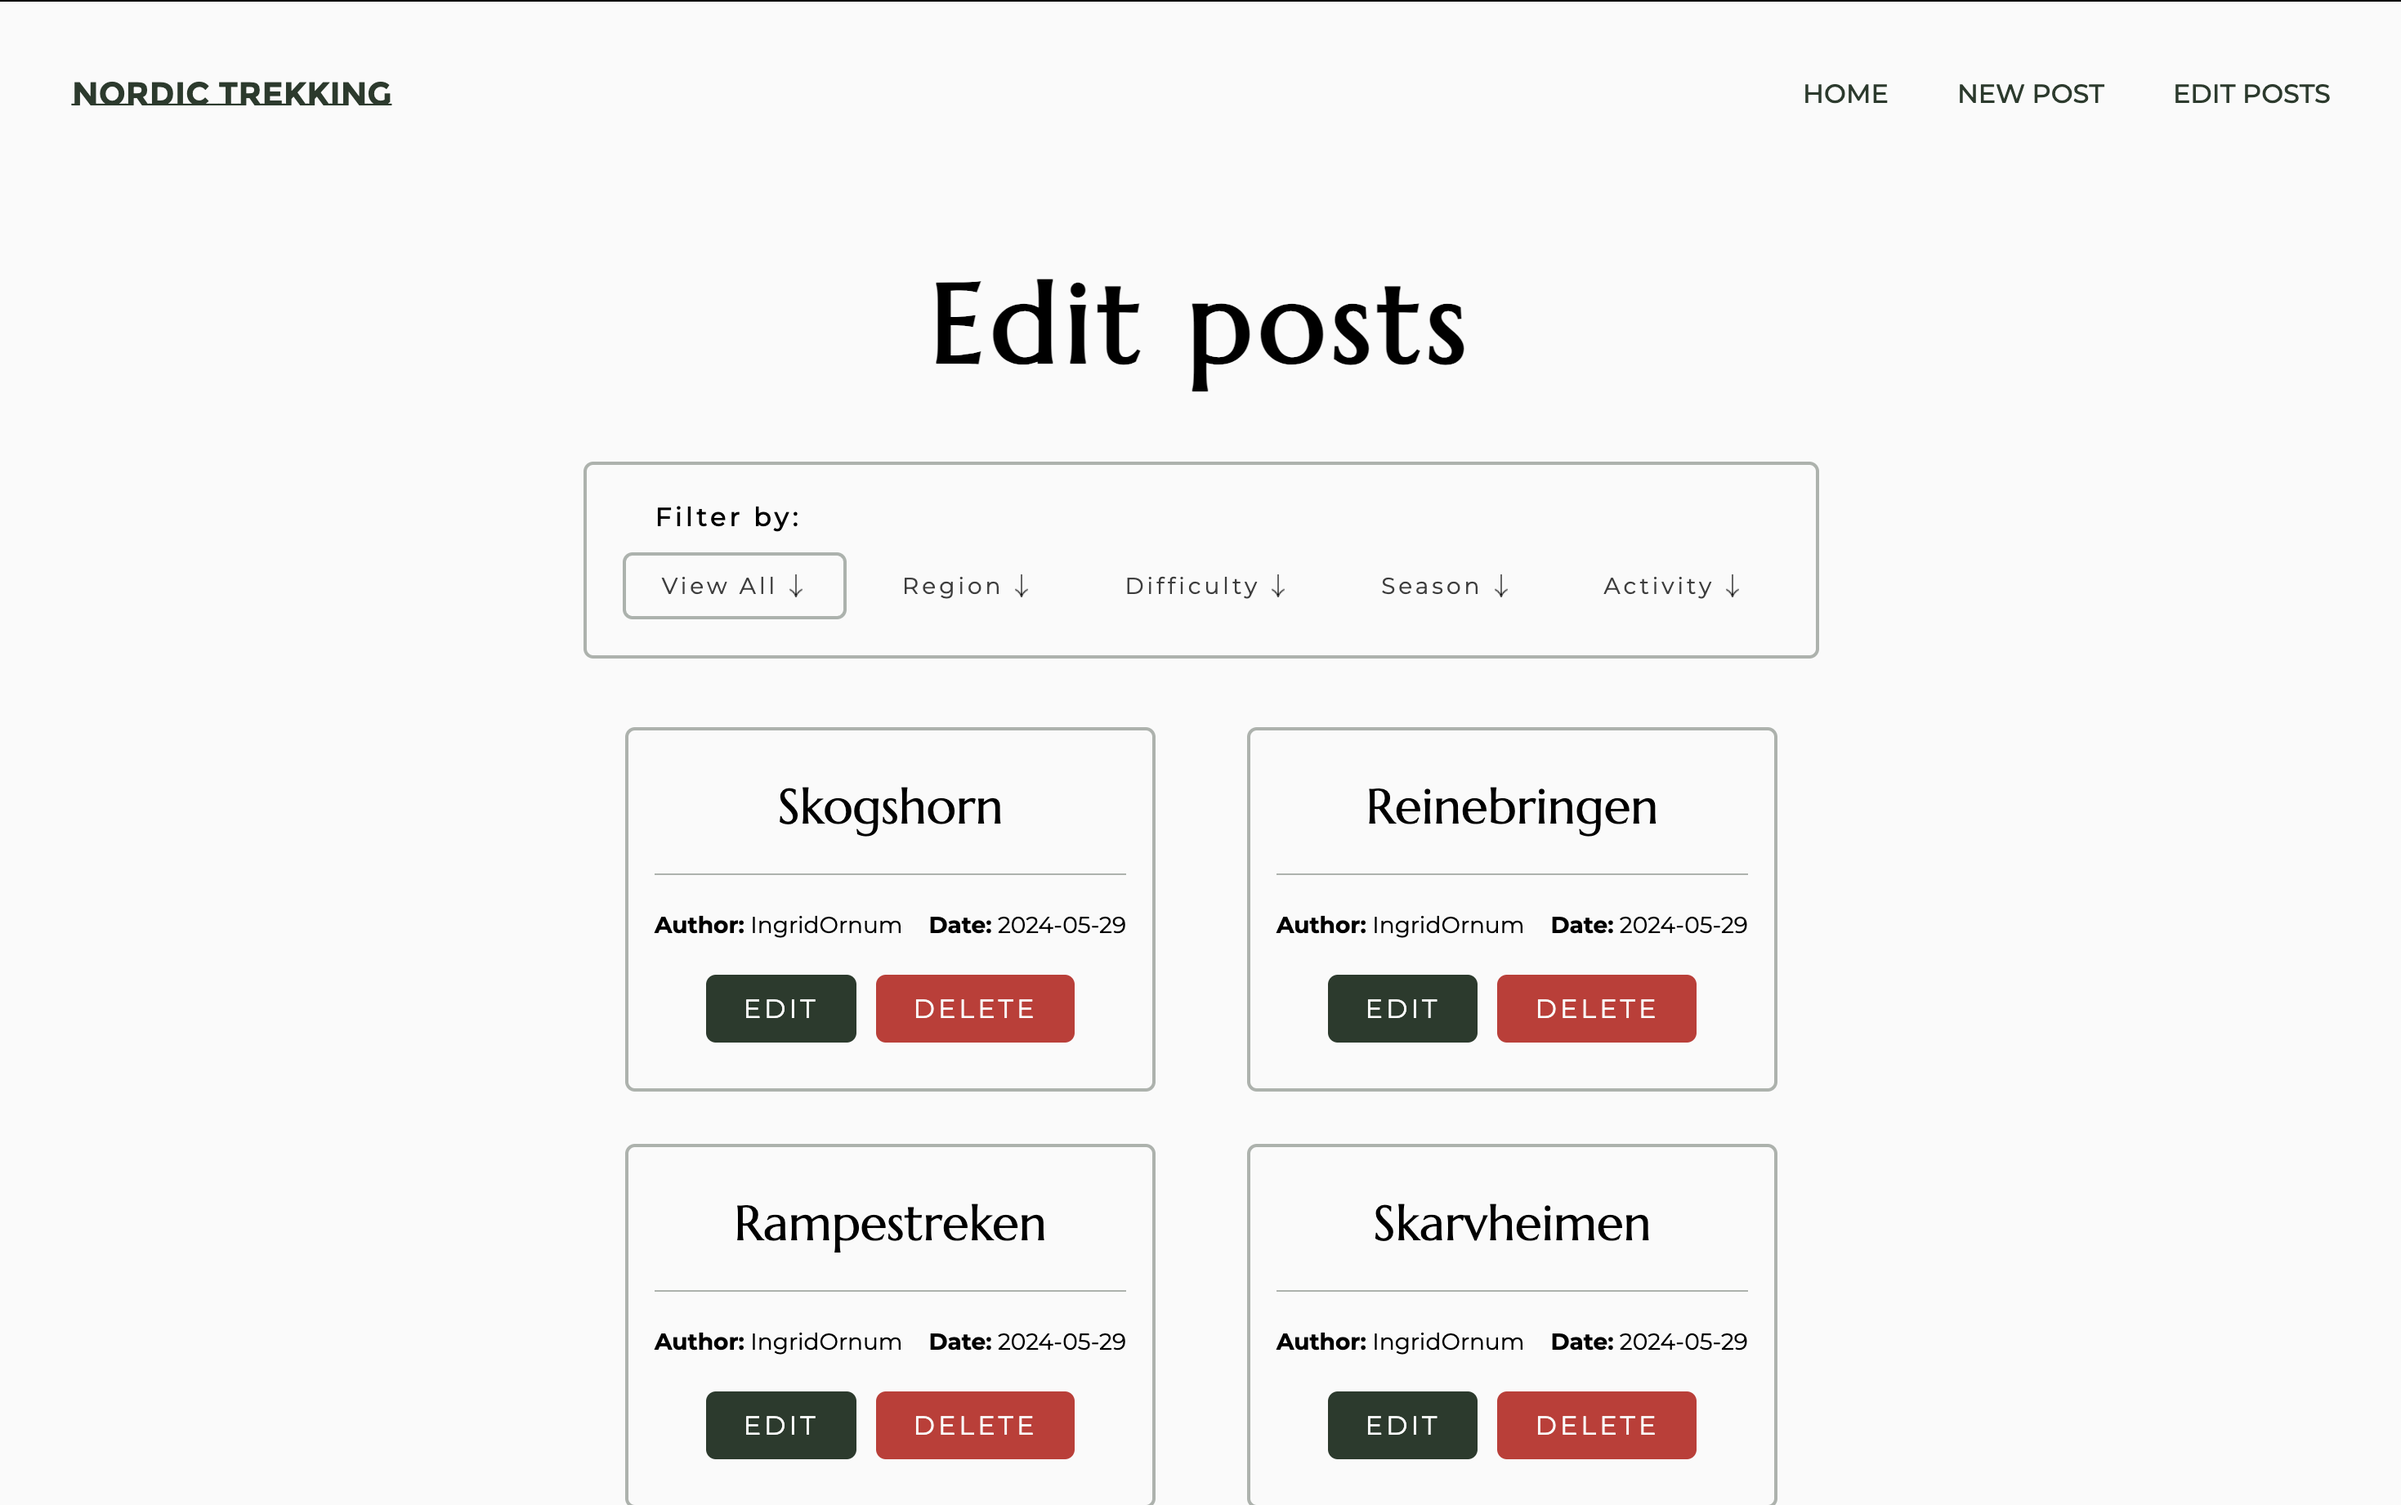
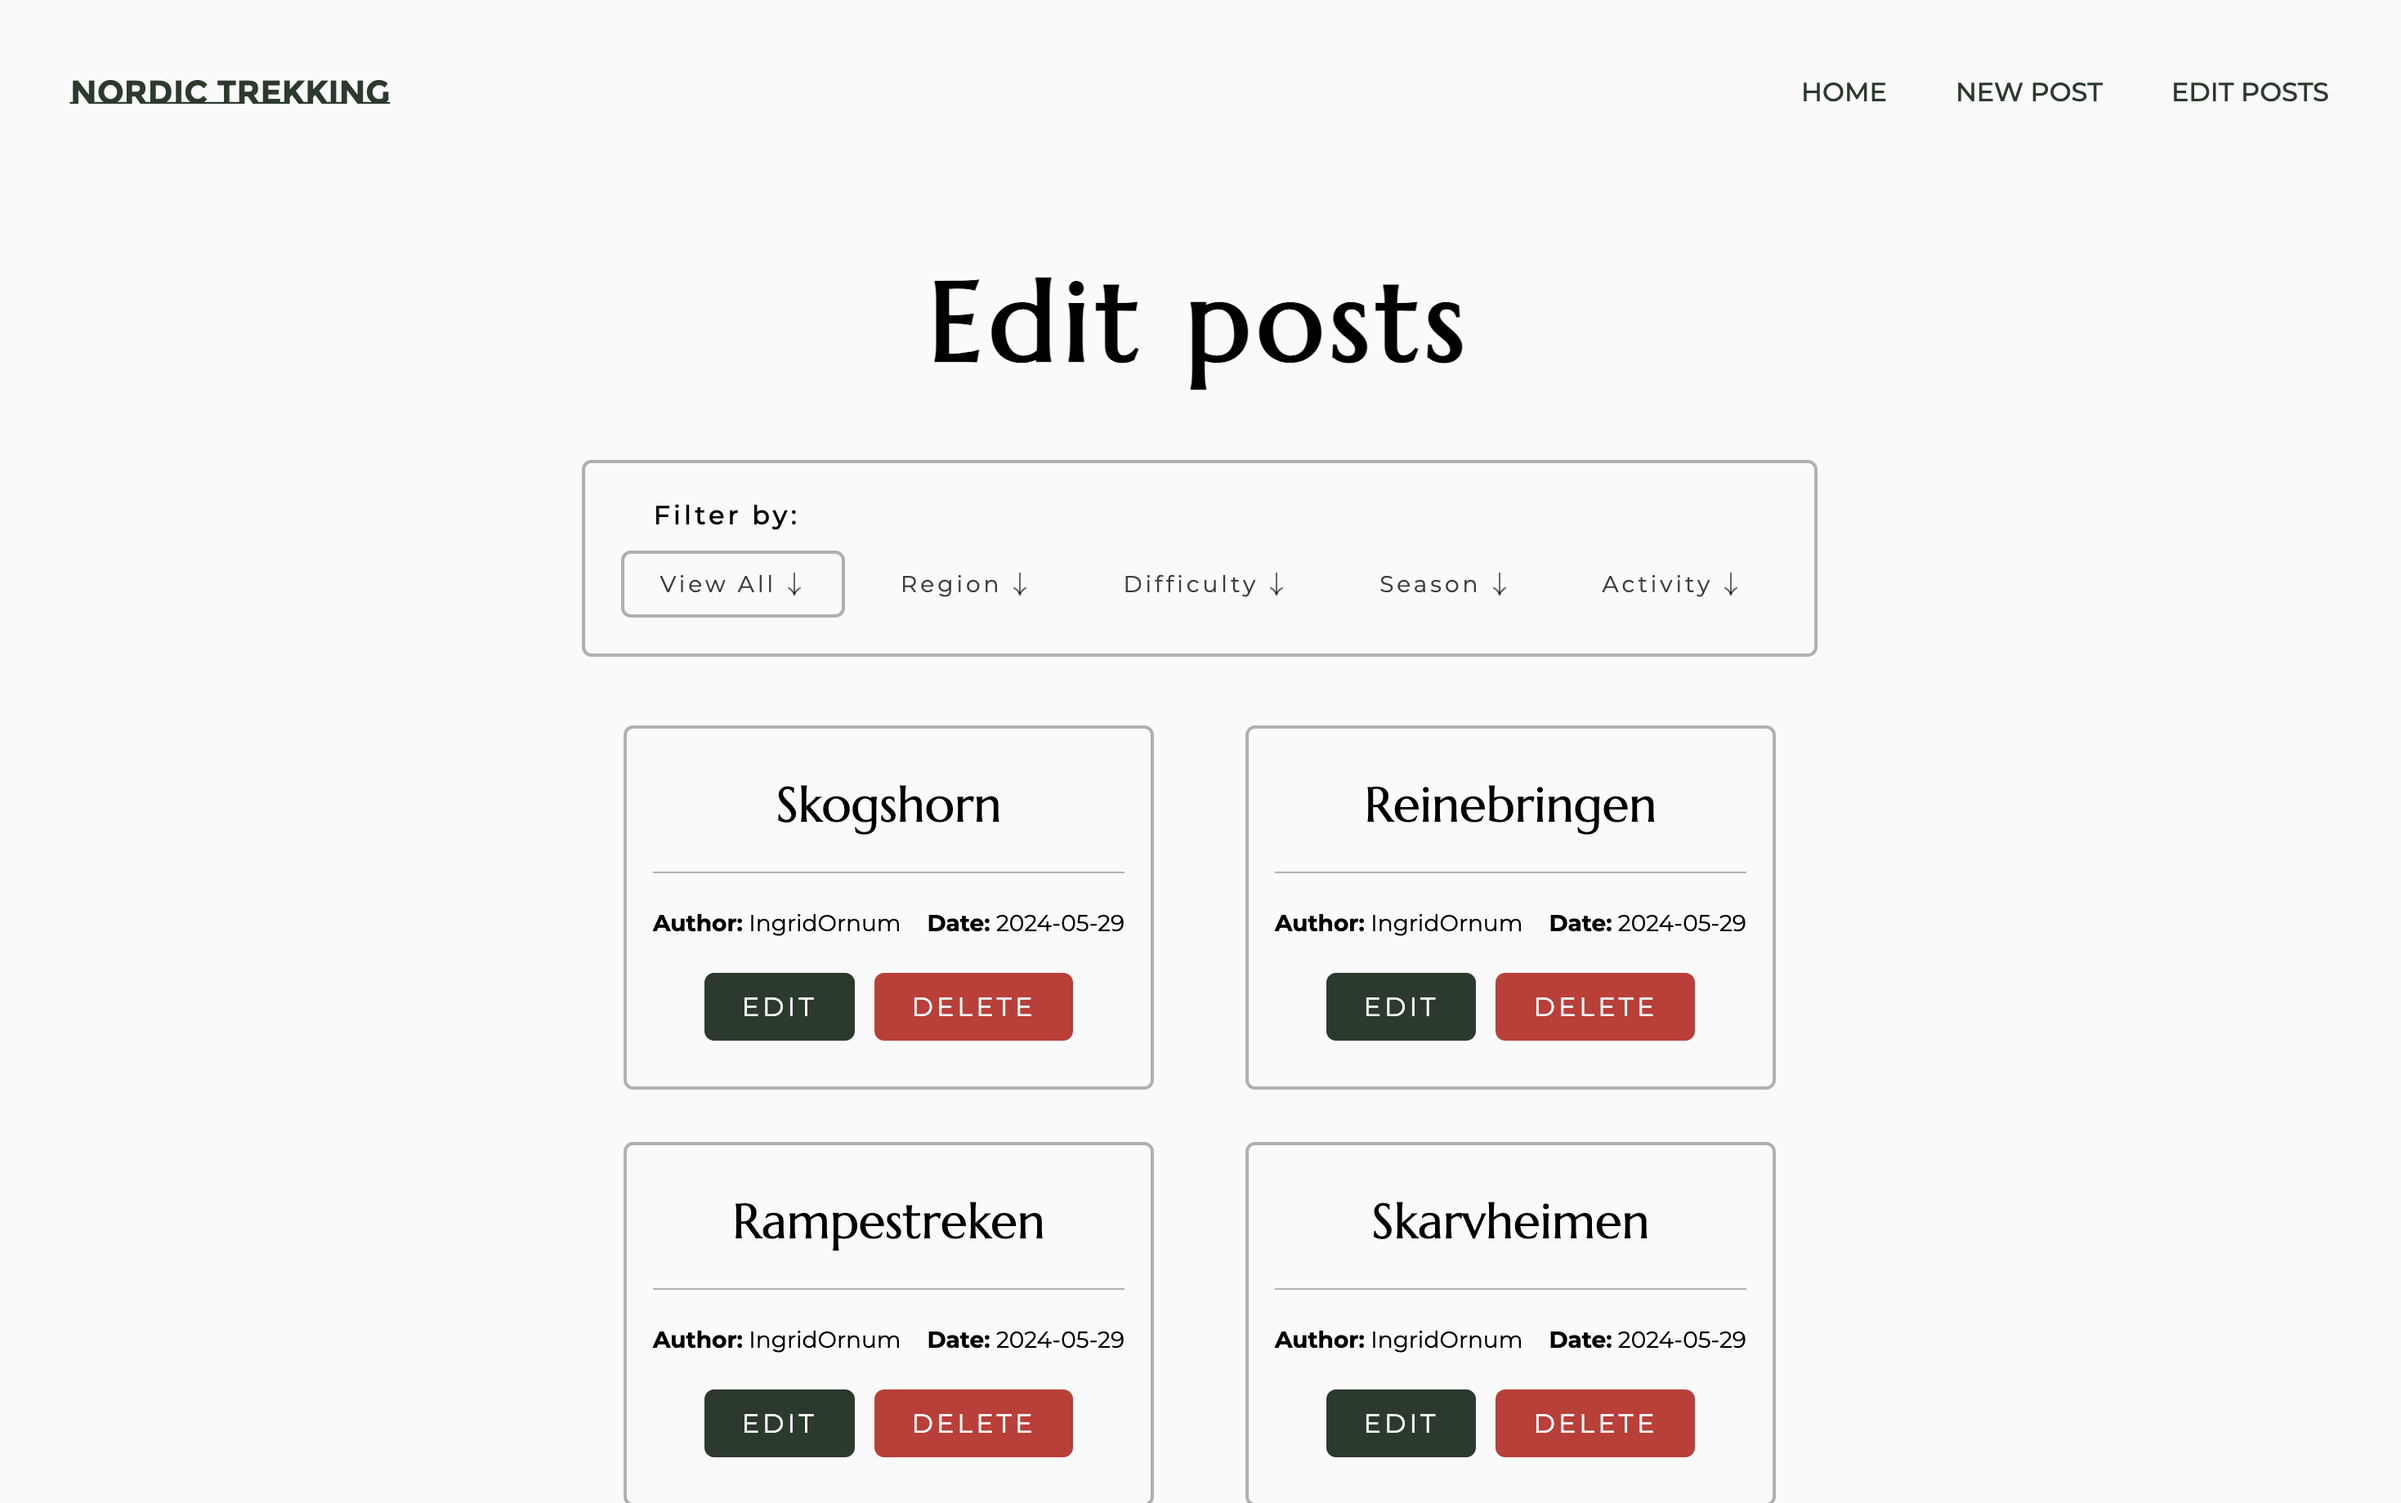
Styling: Added background color to cards for dark-mode. Added styling to pagination buttons.

diff --git a/index.html b/index.html
@@ -51,8 +51,8 @@
             <div class="inner project-1 background-card">
                 <div class="content-project-display-left">
                     <div class="hidden">
-                        <div class="project-title poppins semi-bold">NORDIC TREKKING</div>
-                        <p class="project-description poppins ex-light">
+                        <div class="project-title project-title-1 poppins semi-bold">NORDIC TREKKING</div>
+                        <p class="project-description project-description-1 poppins ex-light">
                             Lorem ipsum dolor sit amet, consectetur adipiscing elit, sed do eiusmod tempor incididunt ut
                             labore et
                             dolore magna aliqua. Pretium vulputate sapien nec sagittis. Adipiscing elit ut aliquam purus
@@ -95,10 +95,10 @@
                     <div class="gallery-pagination">
                         <div class="pagination-arrows">
                             <button class="arrow-prev" data-carousel-btn-id="1" data-carousel-button="prev">
-                                <i class="fa-solid fa-arrow-left"></i>
+                                <i class="fa-solid fa-arrow-left fa-lg"></i>
                             </button>
                             <button class="arrow-next" data-carousel-btn-id="1" data-carousel-button="next">
-                                <i class="fa-solid fa-arrow-right"></i>
+                                <i class="fa-solid fa-arrow-right fa-lg"></i>
                             </button>
                         </div>
                     </div>
@@ -107,8 +107,8 @@
             <div class="inner project-2 background-card">
                 <div class="content-project-display-left">
                     <div class="hidden">
-                        <div class="project-title poppins semi-bold">COMMUNITY SCIENCE MUSEUM</div>
-                        <p class="project-description poppins ex-light">
+                        <div class="project-title project-title-2 poppins semi-bold">COMMUNITY SCIENCE MUSEUM</div>
+                        <p class="project-description project-description-2 poppins ex-light">
                             Lorem ipsum dolor sit amet, consectetur adipiscing elit, sed do eiusmod tempor
                             incididunt ut
                             labore et
@@ -155,10 +155,10 @@
                     <div class="gallery-pagination">
                         <div class="pagination-arrows">
                             <button class="arrow-prev" data-carousel-btn-id="2" data-carousel-button="prev">
-                                <i class="fa-solid fa-arrow-left"></i>
+                                <i class="fa-solid fa-arrow-left fa-lg"></i>
                             </button>
                             <button class="arrow-next" data-carousel-btn-id="2" data-carousel-button="next">
-                                <i class="fa-solid fa-arrow-right"></i>
+                                <i class="fa-solid fa-arrow-right fa-lg"></i>
                             </button>
                         </div>
                     </div>
@@ -167,8 +167,8 @@
             <div class="inner project-3 background-card">
                 <div class="content-project-display-left">
                     <div class="hidden">
-                        <div class="project-title poppins semi-bold">SQUARE EYES</div>
-                        <p class="project-description poppins ex-light">
+                        <div class="project-title project-title-3 poppins semi-bold">SQUARE EYES</div>
+                        <p class="project-description project-description-3 poppins ex-light">
                             Lorem ipsum dolor sit amet, consectetur adipiscing elit, sed do eiusmod tempor
                             incididunt ut
                             labore et
@@ -215,10 +215,10 @@
                     <div class="gallery-pagination">
                         <div class="pagination-arrows">
                             <button class="arrow-prev" data-carousel-btn-id="3" data-carousel-button="prev">
-                                <i class="fa-solid fa-arrow-left"></i>
+                                <i class="fa-solid fa-arrow-left fa-lg"></i>
                             </button>
                             <button class="arrow-next" data-carousel-btn-id="3" data-carousel-button="next">
-                                <i class="fa-solid fa-arrow-right"></i>
+                                <i class="fa-solid fa-arrow-right fa-lg"></i>
                             </button>
                         </div>
                     </div>

diff --git a/js/app.js b/js/app.js
@@ -73,6 +73,15 @@ const hero = document.querySelector('.hero');
 const logoAndLocation = document.querySelector('.logo-and-location');
 const lineDivider = document.querySelector('.line-divider');
 const lineDividerSm = document.querySelector('.line-divider-sm');
+const project1Bg = document.querySelector('.project-1');
+const project2Bg = document.querySelector('.project-2');
+const project3Bg = document.querySelector('.project-3');
+const projectTitle1 = document.querySelector('.project-title-1');
+const projectTitle2 = document.querySelector('.project-title-2');
+const projectTitle3 = document.querySelector('.project-title-3');
+const projectDescription1 = document.querySelector('.project-description-1');
+const projectDescription2 = document.querySelector('.project-description-2');
+const projectDescription3 = document.querySelector('.project-description-3');
 
 let isNightMode = false;
 
@@ -90,9 +99,19 @@ bgSwitch.addEventListener('change', function () {
     `;
         grainContainer.style.backgroundColor = 'hsla(341,37%,39%,1)';
         hero.style.color = '#b8acff';
-        logoAndLocation.style.color = '#b8acff';
+        logoAndLocation.style.color = '#FBF6F6';
         lineDivider.style.backgroundColor = '#b8acff';
-        lineDividerSm.style.backgroundColor = '#b8acff';
+        lineDividerSm.style.backgroundColor = '#FBF6F6';
+        project1Bg.style.backgroundColor = '#0c332a';
+        project2Bg.style.backgroundColor = '#0e0b26';
+        project3Bg.style.backgroundColor = '#170805';
+        projectTitle1.style.color = '#FBF6F6';
+        projectTitle2.style.color = '#FBF6F6';
+        projectTitle3.style.color = '#FBF6F6';
+        projectDescription1.style.color = '#FBF6F6';
+        projectDescription2.style.color = '#FBF6F6';
+        projectDescription3.style.color = '#FBF6F6';
+
         isNightMode = true;
     } else {
         grainContainer.style.backgroundImage = '';
@@ -101,6 +120,16 @@ bgSwitch.addEventListener('change', function () {
         logoAndLocation.style.color = '';
         lineDivider.style.backgroundColor = '';
         lineDividerSm.style.backgroundColor = '';
+        project1Bg.style.backgroundColor = '';
+        project2Bg.style.backgroundColor = '';
+        project3Bg.style.backgroundColor = '';
+        projectTitle1.style.color = '';
+        projectTitle2.style.color = '';
+        projectTitle3.style.color = '';
+        projectDescription1.style.color = '';
+        projectDescription2.style.color = '';
+        projectDescription3.style.color = '';
+
         isNightMode = false;
     }
 })

diff --git a/css/projects-section.css b/css/projects-section.css
@@ -75,15 +75,25 @@
 
 .btn-visit-site {
     background-color: #424242;
-    color: white;
+    color: #FBF6F6;
     border: #424242 solid 2px;
+}
+
+.btn-visit-site:hover {
+    background-color: #FBF6F6;
+    color: #424242;
 }
 
 .btn-github-link {
     border: #424242 solid 2px;
-    background-color: transparent;
+    background-color: #FBF6F6;
     color: #292929;
     transition-delay: 3s;
+}
+
+.btn-github-link:hover {
+    background-color: #424242;
+    color: #FBF6F6;
 }
 
 .btn-visit-site, .btn-github-link {
@@ -193,4 +203,22 @@
 
 .tech-item-4 {
     transition-delay: 1.5s;
+}
+
+.arrow-prev, .arrow-next {
+    display: flex;
+    justify-content: center;
+    align-items: center;
+    border-radius: 500px;
+    height: 40px;
+    width: 40px;
+    border: 1.5px solid #1a1a1a;
+    background-color: #FBF6F6;
+    cursor: pointer;
+    transition: 1.5s ease-in-out;
+}
+
+.arrow-prev:hover, .arrow-next:hover {
+    background-color: #292929;
+    color: #FBF6F6;
 }

diff --git a/css/styles.css b/css/styles.css
@@ -47,7 +47,7 @@ body, html {
     z-index: -10;
 }
 
-#grain {
+.grain {
     pointer-events: none;
 }
 
